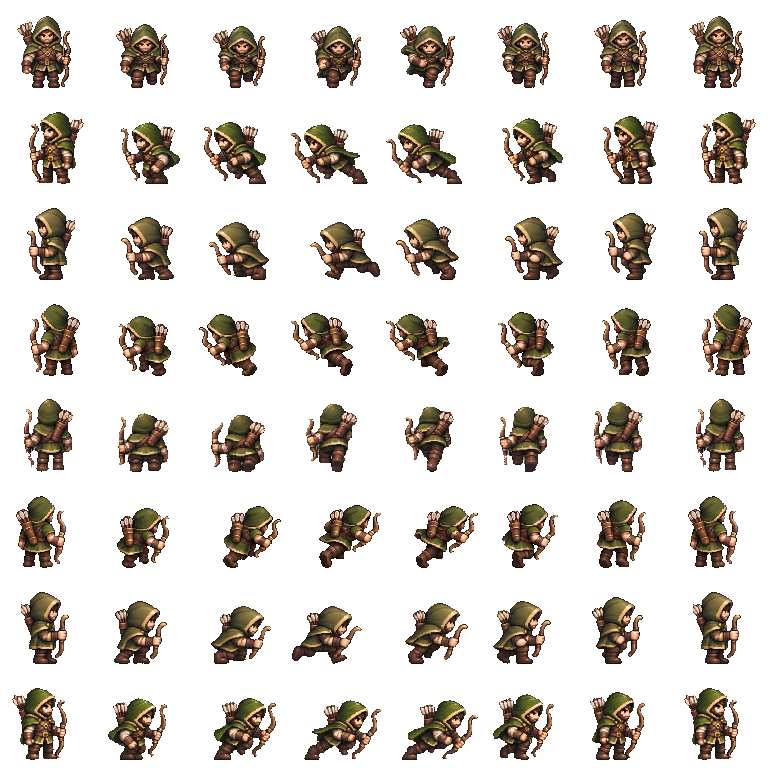
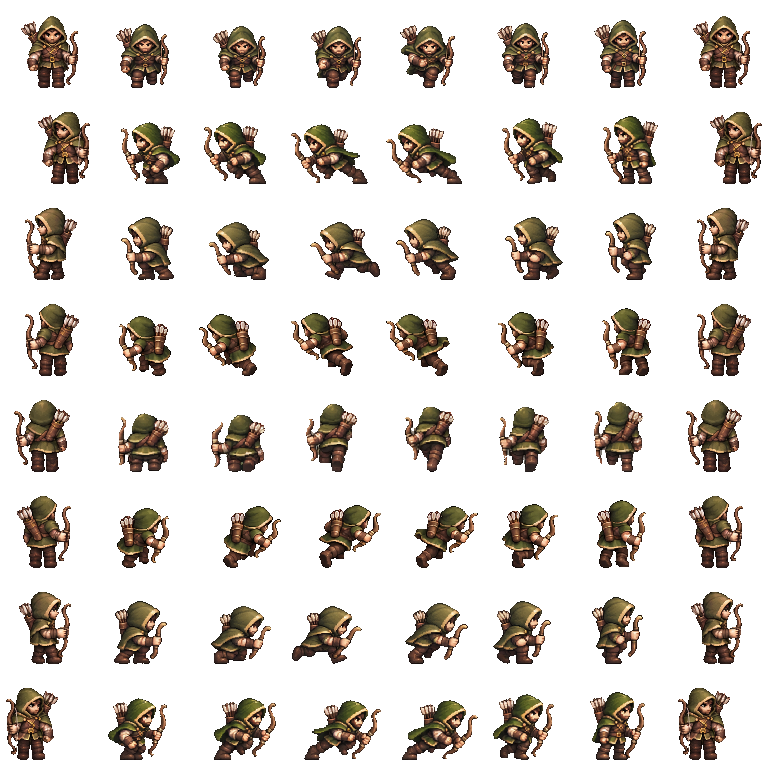
Fix hunter stride reset and unify standing/walking poses with visible side bow

diff --git a/src/animation-lab.js b/src/animation-lab.js
@@ -1,11 +1,11 @@
 import {getKnightFinal,knightFinalFrame} from './knight-final.js?v=0.67.1';
-import {getHunterProduction,hunterPose,HUNTER_STRIDE} from './hunter-production.js?v=0.73.0';
+import {getHunterProduction,hunterPose,HUNTER_STRIDE} from './hunter-production.js?v=0.73.1';
 import {heroRigReady,articulatedPose,RIG_ROWS,getHeroRig} from './articulated-hero.js?v=0.68.0';
-import {HeroSpriteAtlas} from './hero-sprites.js?v=0.73.0';
+import {HeroSpriteAtlas} from './hero-sprites.js?v=0.73.1';
 import {KnightSpriteAtlas} from './knight-sprites.js?v=0.67.1';
 import {heroPose,HERO_CLIPS} from './hero-animation.js?v=0.31.0';
 import {knightPose,KNIGHT_CLIPS} from './knight-animation.js?v=0.67.1';
-import {heroShot} from './hero-aim.js?v=0.73.0';
+import {heroShot} from './hero-aim.js?v=0.73.1';
 import {KNIGHT_VISUAL_STRIDE} from './knight-walk.js?v=0.46.0';
 import {CLASSES} from './data.js?v=0.23.0';
 import {getMageProduction,magePose} from './mage-production.js?v=0.67.1';
@@ -21,7 +21,7 @@ export function labSample(kind,state,direction,seconds,moving=false){
  if(!LAB_KINDS.includes(kind)||!Object.hasOwn(LAB_STATES,state))throw new RangeError('Unknown preview');
  const progress=Math.max(0,Math.min(1,seconds));
  const p={kind,x:128,y:121,hp:100,invulnerable:0,direction:{x:direction.x,y:direction.y},
-  knightPreviewProgress:progress,moving:state==='walk'||moving,walkDistance:progress*(kind==='hunter'?HUNTER_STRIDE:72),knightWalkDistance:progress*KNIGHT_VISUAL_STRIDE,mageWalkDistance:progress*KNIGHT_VISUAL_STRIDE,
+  knightPreviewProgress:progress,moving:state==='walk'||moving,walkDistance:progress*(kind==='hunter'?HUNTER_STRIDE:72),hunterWalkDistance:progress*HUNTER_STRIDE,knightWalkDistance:progress*KNIGHT_VISUAL_STRIDE,mageWalkDistance:progress*KNIGHT_VISUAL_STRIDE,
   robedWalkDistance:progress*240,walkCycle:progress*.54*14,heroMoveDirection:{...direction},knightMoveDirection:{...direction},hurtTimer:0};
  const knight=kind==='warrior',clips=knight?KNIGHT_CLIPS:HERO_CLIPS;
  let clip=state;

diff --git a/tests/hunter-production.test.js b/tests/hunter-production.test.js
@@ -7,6 +7,7 @@ import {HunterProductionAtlas,HUNTER_CELL,HUNTER_COUNTS,HUNTER_ROWS,
 import {HUNTER_SOCKETS} from '../src/hunter-sockets.js';
 import {heroShot} from '../src/hero-aim.js';
 import {Renderer} from '../src/render.js';
+import {advanceLocomotion} from '../src/locomotion.js';
 import {Game} from '../src/game.js';
 import {defaultProgress} from '../src/progression.js';
 const folder=new URL('../assets/heroes/hunter/original-073/',import.meta.url);
@@ -130,5 +131,19 @@ test('the production hunter shadow touches the same sole line as the mage',()=>{
   Renderer.prototype.player.call({ctx,heroes,shadow(){throw Error('legacy floating shadow');}},
    {kind,x:100,y:100,radius:17,hp:100,shield:0,direction:{x:0,y:1}},0);
   assert.equal(ellipses.length,1);assert.deepEqual(ellipses[0].slice(0,4),[100,101,kind==='hunter'?21:19,4]);
+ }
+});
+
+test('actual movement gives the hunter all eight phases without the legacy 72-unit reset',()=>{
+ for(let row=0;row<8;row++){
+  const d=direction(row),p={kind:'hunter',x:0,y:0,hp:100,direction:d};
+  const frames=[];
+  for(let step=0;step<8;step++){
+   const x=p.x,y=p.y;p.x+=d.x*12;p.y+=d.y*12;
+   advanceLocomotion(p,x,y,false,1/60);
+   frames.push(hunterPose(p).frame);
+  }
+  assert.equal(new Set(frames).size,8,'skips phases in direction '+row);
+  assert.ok(Math.abs(p.hunterWalkDistance)<1e-8||Math.abs(p.hunterWalkDistance-96)<1e-8);
  }
 });

diff --git a/src/hunter-production.js b/src/hunter-production.js
@@ -1,8 +1,8 @@
-import {HUNTER_ANCHORS} from './hunter-anchors.js?v=0.73.0';
-import {HUNTER_SOCKETS} from './hunter-sockets.js?v=0.73.0';
+import {HUNTER_ANCHORS} from './hunter-anchors.js?v=0.73.1';
+import {HUNTER_SOCKETS} from './hunter-sockets.js?v=0.73.1';
 
 // Original whole-body artwork. No mage images, palette conversion or runtime limbs.
-export const HUNTER_PRODUCTION_VERSION='0.73.0';
+export const HUNTER_PRODUCTION_VERSION='0.73.1';
 export const HUNTER_CELL=96;
 export const HUNTER_ANCHOR=Object.freeze({x:48,y:88});
 export const HUNTER_SCALE=1;
@@ -24,7 +24,7 @@ export function hunterPose(p,time=0,action=p.heroAction){
  const direction=(clip==='death'?p.heroDeathDirection:action?.direction)||
   (clip==='walk'?p.heroMoveDirection:null)||p.direction||{x:0,y:1};
  const row=hunterFacing(direction),count=HUNTER_COUNTS[clip];
- const phase=clip==='walk'?((((p.walkDistance||0)%HUNTER_STRIDE)+HUNTER_STRIDE)%HUNTER_STRIDE)/HUNTER_STRIDE:
+ const phase=clip==='walk'?((((p.hunterWalkDistance??p.walkDistance??0)%HUNTER_STRIDE)+HUNTER_STRIDE)%HUNTER_STRIDE)/HUNTER_STRIDE:
   clip==='idle'?(((time%2.4)+2.4)%2.4)/2.4:progress;
  return {clip,row,frame:Math.min(count-1,Math.floor(phase*count)),count,progress,direction};
 }

diff --git a/index.html b/index.html
@@ -11,7 +11,7 @@
 <body>
  <canvas id="gameCanvas" aria-label="Realm Runners Spielfeld"></canvas>
  <div class="game-top">
-  <div class="identity"><span class="sigil">✦</span><span>REALM <b>RUNNERS</b><small>DUNGEON REBORN · ALPHA 0.73.0</small></span></div>
+  <div class="identity"><span class="sigil">✦</span><span>REALM <b>RUNNERS</b><small>DUNGEON REBORN · ALPHA 0.73.1</small></span></div>
   <div id="hud" class="hud hidden" aria-live="off">
    <div class="hud-stat hp-stat"><span class="stat-label">LEBEN</span><span id="hpText">100 / 100</span><div class="hp-track"><div id="hpFill"></div></div></div>
    <div class="hud-stat"><span class="stat-label">DUNGEON</span><strong id="roomText">0 / 9</strong></div>
@@ -41,6 +41,6 @@
   </div>
  </section>
  <div id="toast" class="toast hidden" role="status"></div>
- <script type="module" src="./src/main.js?v=0.73.0"></script>
+ <script type="module" src="./src/main.js?v=0.73.1"></script>
 </body>
 </html>

diff --git a/tests/hunter-qa.js b/tests/hunter-qa.js
@@ -1,8 +1,8 @@
-import {getHunterProduction,HUNTER_COUNTS,hunterPose} from '../src/hunter-production.js?v=0.73.0';
+import {getHunterProduction,HUNTER_COUNTS,hunterPose} from '../src/hunter-production.js?v=0.73.1';
 import {getMageProduction} from '../src/mage-production.js?v=0.67.1';
 import {getKnightFinal} from '../src/knight-final.js?v=0.67.1';
-import {heroShot} from '../src/hero-aim.js?v=0.73.0';
-import {Game} from '../src/game.js?v=0.73.0';
+import {heroShot} from '../src/hero-aim.js?v=0.73.1';
+import {Game} from '../src/game.js?v=0.73.1';
 import {defaultProgress} from '../src/progression.js?v=0.21.0';
 const status=document.querySelector('#status'),hunter=getHunterProduction(),mage=getMageProduction(),knight=getKnightFinal();
 const assert=(condition,message)=>{if(!condition)throw Error(message);};

diff --git a/src/main.js b/src/main.js
@@ -1,10 +1,10 @@
-import {openAnimationLab,animationLabOpen} from './animation-lab.js?v=0.73.0';
+import {openAnimationLab,animationLabOpen} from './animation-lab.js?v=0.73.1';
 import {CLASSES} from './data.js?v=0.23.0';
 import {loadProgress,upgradeCost} from './progression.js?v=0.21.0';
 import {ENEMY_NAMES,totalKills,formatPlayTime} from './statistics.js?v=0.21.0';
 import {Input} from './input.js?v=0.23.0';
-import {Game} from './game.js?v=0.73.0';
-import {Renderer} from './render.js?v=0.73.0';
+import {Game} from './game.js?v=0.73.1';
+import {Renderer} from './render.js?v=0.73.1';
 import {TALENTS,RARITIES,describeStats,talentCost} from './loot.js?v=0.21.0';
 import {ITEM_SETS,RUN_POWERS,setPieces} from './buildcraft.js?v=0.21.0';
 import {installTouchGuard} from './touch-guard.js';

diff --git a/src/game.js b/src/game.js
@@ -1,7 +1,7 @@
 import {knightStrikePlanted,knightProductionImpact} from './knight-production.js?v=0.67.1';
 import {beginCompanionAttack,advanceCompanion,companionShot} from './companion-animation.js?v=0.31.0';
-import {advanceLocomotion} from './locomotion.js?v=0.67.1';
-import {heroShot,HERO_PROJECTILE_HEIGHT} from './hero-aim.js?v=0.73.0';
+import {advanceLocomotion} from './locomotion.js?v=0.73.1';
+import {heroShot,HERO_PROJECTILE_HEIGHT} from './hero-aim.js?v=0.73.1';
 import {HERO_KINDS,beginHeroAction,advanceHeroAction} from './hero-animation.js?v=0.31.0';
 import {beginKnightAction,advanceKnightAction} from './knight-animation.js?v=0.67.1';
 import {knightBladeTip} from './knight-reborn.js?v=0.49.0';

diff --git a/src/hero-sprites.js b/src/hero-sprites.js
@@ -1,9 +1,9 @@
 import {getMageProduction} from './mage-production.js?v=0.67.1';
-import {getHunterProduction} from './hunter-production.js?v=0.73.0';
+import {getHunterProduction} from './hunter-production.js?v=0.73.1';
 import {getHeroRig,previewHeroRig} from './articulated-hero.js?v=0.68.0';
 import {drawRobedWalk,isRobedWalker} from './robed-walk.js?v=0.39.0';
 import {prepareWalkPivots,walkFrameAnchorY} from './grounded-walk.js?v=0.36.0';
-import {heroShot} from './hero-aim.js?v=0.73.0';
+import {heroShot} from './hero-aim.js?v=0.73.1';
 import {HERO_KINDS,heroPose} from './hero-animation.js?v=0.31.0';
 
 export class HeroSpriteAtlas{

diff --git a/src/locomotion.js b/src/locomotion.js
@@ -19,6 +19,7 @@ export function advanceLocomotion(p,fromX,fromY,dashing=false,dt=1/60){
   // Separate actual-distance clock for the opt-in illustrated animation.
   p.knightPreviewDistance=(p.knightPreviewDistance||0)+distance;
  }
+ if(p.kind==='hunter')p.hunterWalkDistance=((p.hunterWalkDistance||0)+distance)%KNIGHT_VISUAL_STRIDE;
  if(p.kind==='mage')p.mageWalkDistance=((p.mageWalkDistance||0)+distance)%KNIGHT_VISUAL_STRIDE;
  if(isRobedWalker(p.kind))p.robedWalkDistance=((p.robedWalkDistance||0)+distance)%ROBED_WALK_STRIDE;
  p.heroMoveDirection={x:dx/distance,y:dy/distance};

diff --git a/src/render.js b/src/render.js
@@ -1,5 +1,5 @@
 import {CompanionSpriteAtlas,drawCompanionEffect,drawCompanionProjectile} from './companion-sprites.js?v=0.31.0';
-import {HeroSpriteAtlas,drawHeroRelease} from './hero-sprites.js?v=0.73.0';
+import {HeroSpriteAtlas,drawHeroRelease} from './hero-sprites.js?v=0.73.1';
 import {KNIGHT_PRODUCTION_SCALE} from './knight-production.js?v=0.67.1';
 import {KnightSpriteAtlas,drawKnightEffect} from './knight-sprites.js?v=0.67.1';
 import {CLASSES,ENEMY_DATA,TILE,clamp} from './data.js?v=0.23.0';

diff --git a/src/hero-aim.js b/src/hero-aim.js
@@ -1,5 +1,5 @@
 import {mageReady,mageShot} from './mage-production.js?v=0.67.1';
-import {hunterProductionEnabled,hunterProductionShot} from './hunter-production.js?v=0.73.0';
+import {hunterProductionEnabled,hunterProductionShot} from './hunter-production.js?v=0.73.1';
 import {heroRigReady,articulatedShot} from './articulated-hero.js?v=0.68.0';
 import {heroFacing} from './hero-animation.js?v=0.31.0';
 

diff --git a/src/knight-animation.js b/src/knight-animation.js
@@ -1,5 +1,5 @@
 import {KNIGHT_VISUAL_STRIDE} from './knight-walk.js?v=0.46.0';
-import {WALK_STRIDE} from './locomotion.js?v=0.67.1';
+import {WALK_STRIDE} from './locomotion.js?v=0.73.1';
 // Action-local clocks: graphics and damage share the same frame boundary.
 export const KNIGHT_CLIPS=Object.freeze({
  idle:{row:0,frames:8,duration:1.6,loop:true},
